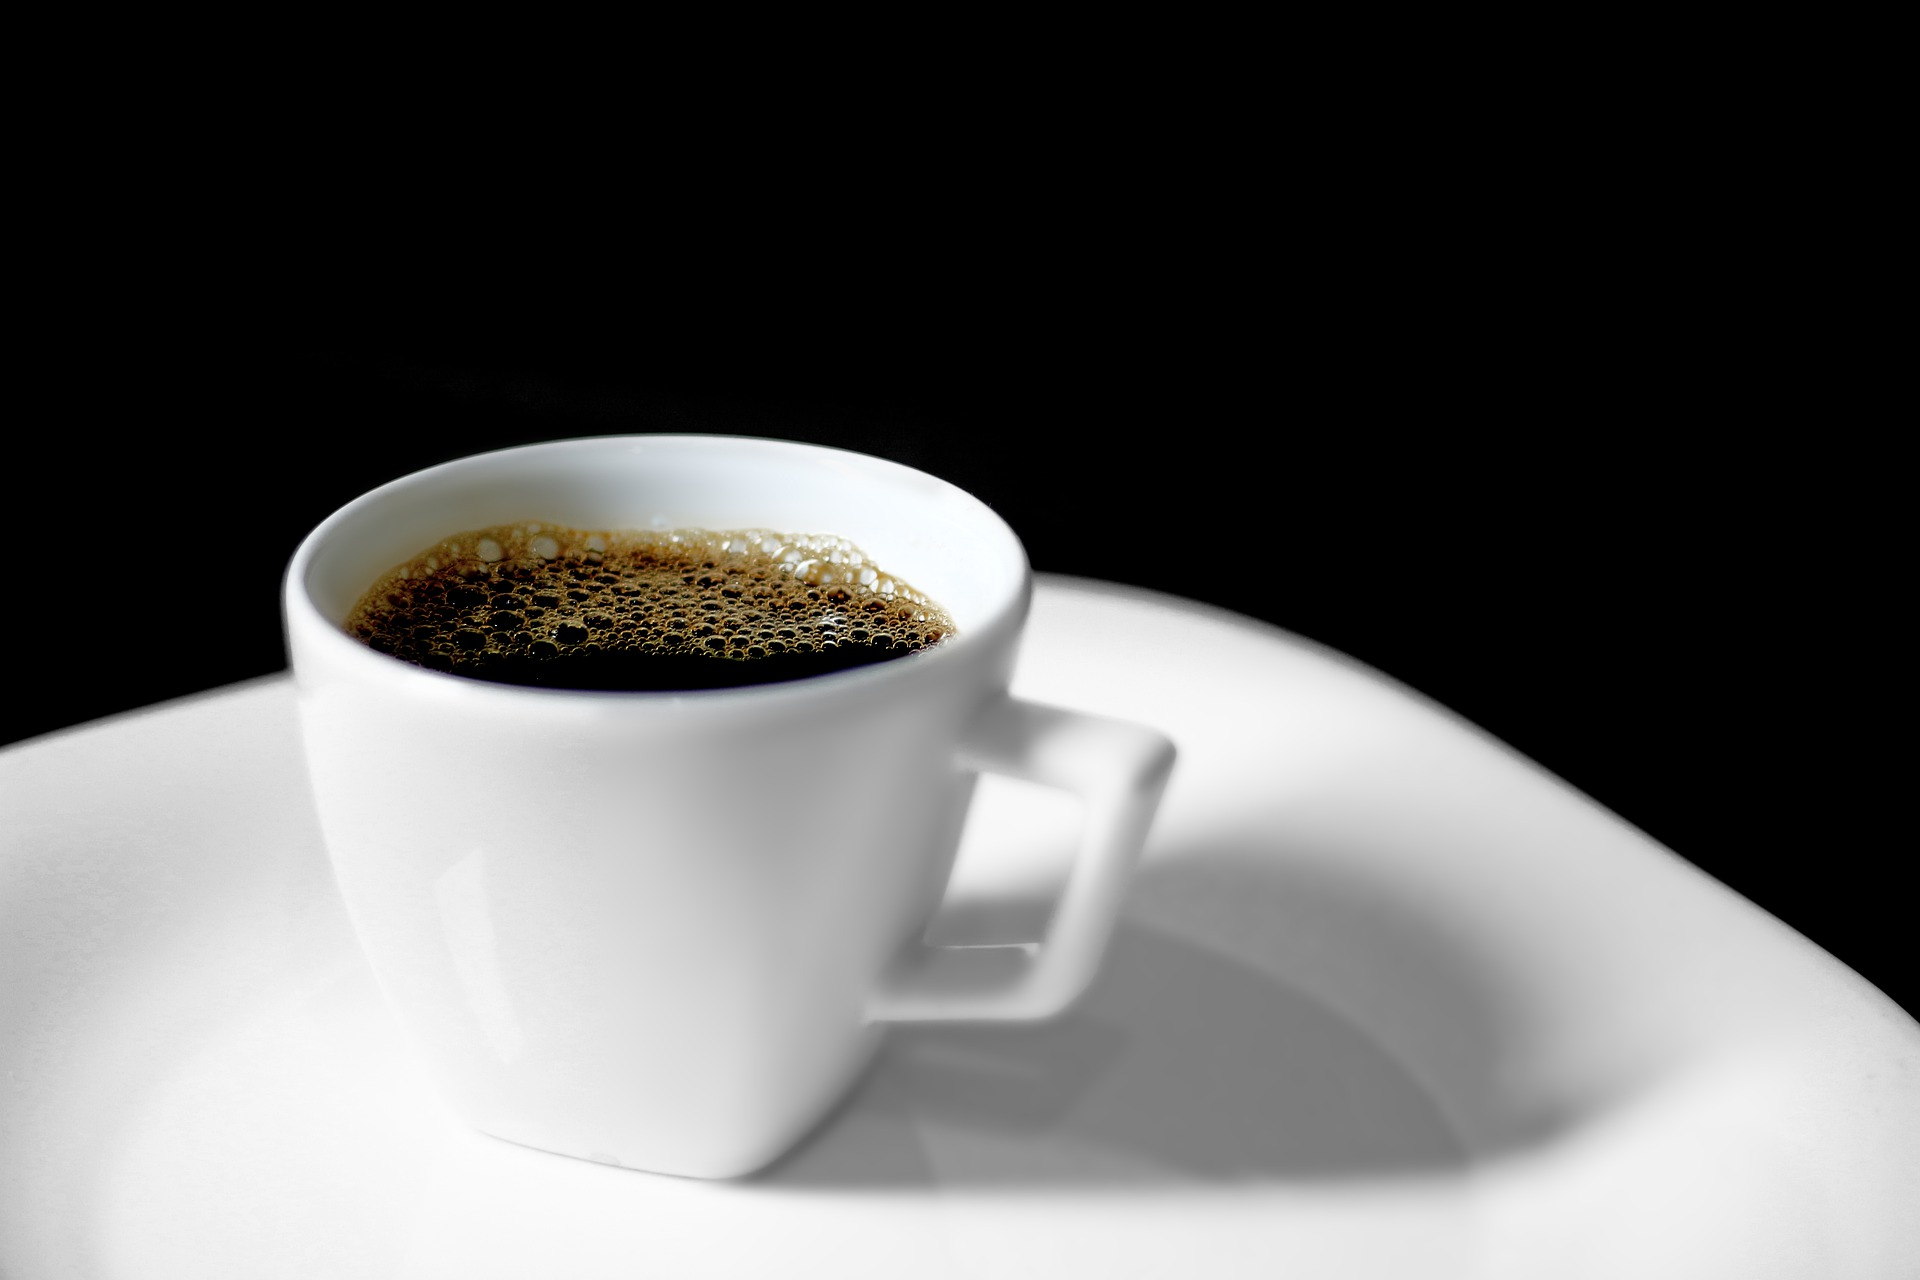
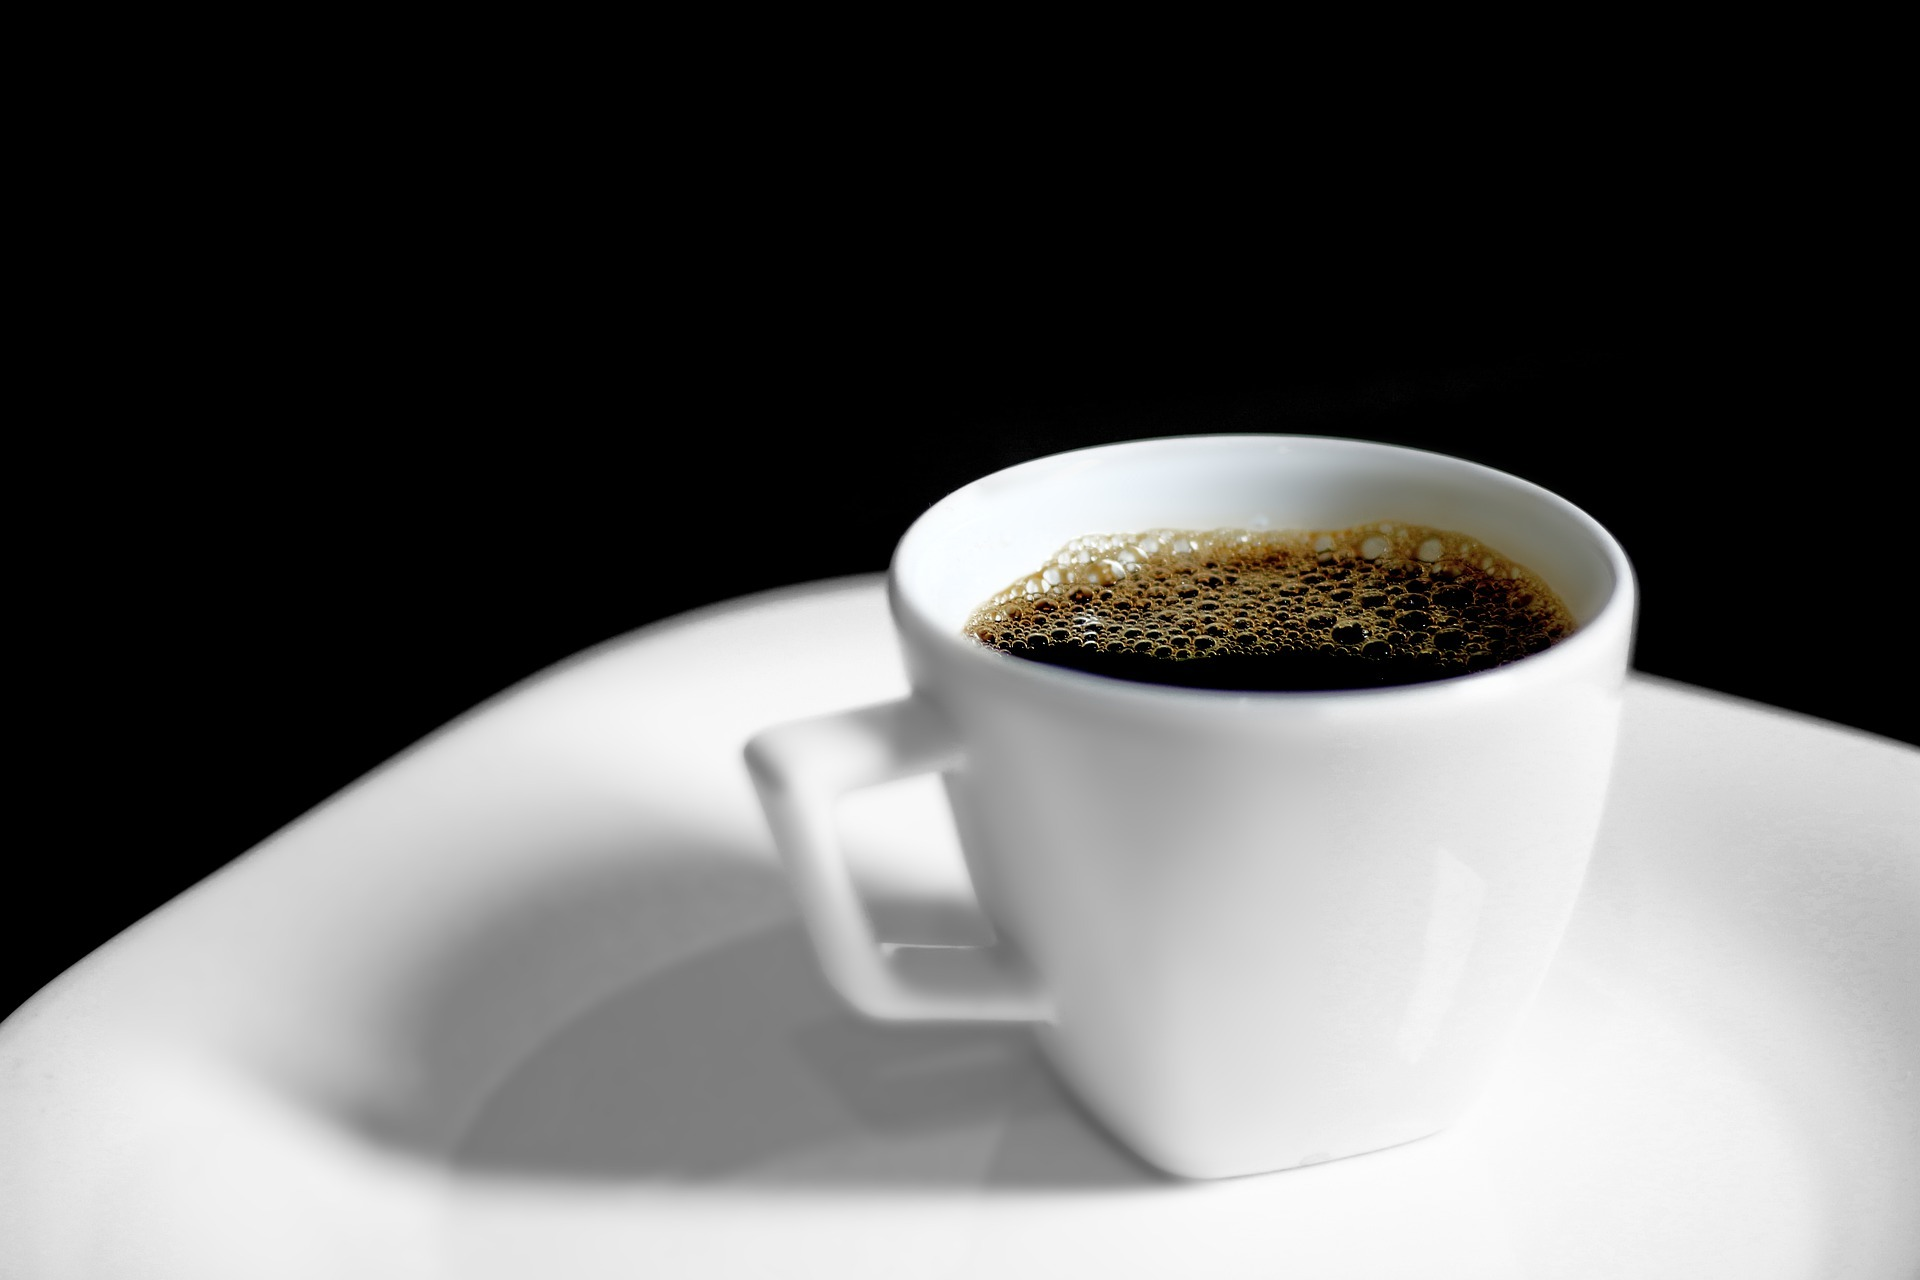
Added home section with styling

diff --git a/index.html b/index.html
@@ -15,15 +15,86 @@
       href="https://cdn.jsdelivr.net/npm/bootstrap@5.1.3/dist/css/bootstrap.min.css"
       rel="stylesheet"
     />
-    <!-- fontawesome CDN -->
-    <link
-      rel="stylesheet"
-      href="https://cdn.jsdelivr.net/npm/@fortawesome/fontawesome-free@5.15.4/css/fontawesome.min.css"
-    />
+    <!-- fontawesome -->
+    <script
+      src="https://kit.fontawesome.com/32ec14537e.js"
+      crossorigin="anonymous"
+    ></script>
     <!-- custom css -->
-    <link rel="stylesheet" href="styles/style.css" />
+    <link rel="stylesheet" href="./styles/styles.css" />
+    <!-- scripts -->
+    <script src="./js/app.js" defer></script>
   </head>
   <body>
-    body
+    <header>
+      <nav class="navbar navbar-expand-lg navigation-wrap">
+        <div class="container">
+          <a class="navbar-brand" href="#"
+            ><i class="fas fa-mug-hot"></i>Coffee lovers</a
+          >
+          <button
+            class="navbar-toggler"
+            type="button"
+            data-bs-toggle="collapse"
+            data-bs-target="#navbarText"
+            aria-controls="navbarText"
+            aria-expanded="false"
+            aria-label="Toggle navigation"
+          >
+            <i class="fas fa-stream navbar-toggler-icon"></i>
+          </button>
+          <div class="collapse navbar-collapse" id="navbarText">
+            <ul class="navbar-nav ms-auto mb-2 mb-lg-0">
+              <li class="nav-item">
+                <a class="nav-link active" href="#">Home</a>
+              </li>
+              <li class="nav-item">
+                <a class="nav-link" href="#">About</a>
+              </li>
+              <li class="nav-item">
+                <a class="nav-link" href="#">Explore Coffee</a>
+              </li>
+              <li class="nav-item">
+                <a class="nav-link" href="#">Reviews</a>
+              </li>
+              <li class="nav-item">
+                <a class="nav-link" href="#">FAQ</a>
+              </li>
+            </ul>
+          </div>
+        </div>
+      </nav>
+    </header>
+
+    <section id="home">
+      <div class="container-fluid px-0 top-banner">
+        <div class="container">
+          <div class="row">
+            <div class="col-lg-5 col-md-6">
+              <h1>
+                What better way to start the day than with a cup of coffee?
+              </h1>
+              <p>
+                Everything we do is rooted in that basic concept. It’s what
+                drives us. It’s what moves us, motivates us and keeps us excited
+                about every decision we make about our products, our services
+                and all that we do in the community. We are coffee passionate.
+              </p>
+              <div class="mt-4">
+                <button class="main-btn">
+                  Order now <i class="fas fa-shopping-basket ps-3"></i>
+                </button>
+                <button class="white-btn ms-lg-4 mt-lg-0 mt-4">
+                  Order now <i class="fas fa-angle-right ps-3"></i>
+                </button>
+              </div>
+            </div>
+          </div>
+        </div>
+      </div>
+    </section>
+
+    <script src="https://cdn.jsdelivr.net/npm/@popperjs/core@2.9.2/dist/umd/popper.min.js"></script>
+    <script src="https://cdn.jsdelivr.net/npm/bootstrap@5.0.1/dist/js/bootstrap.min.js"></script>
   </body>
 </html>

diff --git a/styles/styles.css b/styles/styles.css
@@ -1,0 +1,144 @@
+@import url("https://fonts.googleapis.com/css2?family=Quicksand:wght@300;400;500;600;700&family=Roboto:wght@100;300;400;500;700&display=swap");
+@import "globals.css";
+@import "header.css";
+@import "home.css";
+
+* {
+  box-sizing: border-box;
+  margin: 0;
+  padding: 0;
+}
+
+html {
+  scroll-behavior: smooth;
+}
+
+body {
+  font-family: var(--primary-font);
+  font-size: 100%;
+  font-weight: 400;
+}
+
+:active,
+:hover,
+:focus {
+  outline: 0 !important;
+  outline-offset: 0;
+}
+
+a,
+a:hover {
+  text-decoration: none;
+}
+
+a:hover {
+  color: var(--primary-color) !important;
+}
+
+ul,
+ol {
+  margin: 0;
+  padding: 0;
+}
+
+h1 {
+  font-size: 3rem;
+  font-weight: 900;
+  margin-bottom: 3rem;
+  color: var(--text-orange);
+}
+
+h2 {
+  font-weight: 700;
+  font-size: 2.25rem;
+  text-transform: capitalize;
+  font-family: var(--secondary-font);
+  color: var(--secondary-color);
+  line-height: 3rem;
+}
+
+h4 {
+  color: var(--secondary-color);
+  font-family: var(--secondary-font);
+  text-transform: capitalize;
+  font-size: 18px;
+  font-weight: 800;
+  margin-bottom: 0.5rem;
+}
+
+h5 {
+  color: var(--primary-color);
+  text-transform: capitalize;
+  font-family: var(--secondary-font);
+  font-size: 1rem;
+  font-weight: 700;
+  margin-bottom: 0.5rem;
+}
+
+p {
+  font-size: 1rem;
+  color: var(--text-color);
+  font-weight: 400;
+  line-height: 1.75rem;
+  letter-spacing: 1px;
+}
+
+.main-btn {
+  display: inline-block;
+  padding: 0.625rem 1.875rem;
+  line-height: 1.5625rem;
+  background-color: var(--primary-color);
+  border: 0.1875rem solid var(--primary-color);
+  color: var(--white-color);
+  font-size: 0.9375rem;
+  font-weight: 600;
+  text-transform: capitalize;
+  box-shadow: 0px 2px 10px -1px rgb(0 0 0 / 19%);
+  -webkit-transition: all 0.4s ease-out 0s;
+  -o-transition: all 0.4s ease-out 0s;
+  -moz-transition: all 0.4s ease-out 0s;
+  transition: all 0.4s ease-out 0s;
+}
+
+.white-btn {
+  padding: 0.625rem 1.875rem;
+  line-height: 25px;
+  background-color: var(--white-color);
+  border: 0.1875rem solid var(--white-color);
+  color: var(--text-color);
+  font-size: 0.9375rem;
+  font-weight: 600;
+  text-transform: capitalize;
+  box-shadow: 0px 2px 10px -1px rgb(0 0 0 / 19%);
+  -webkit-transition: all 0.4s ease-out 0s;
+  -o-transition: all 0.4s ease-out 0s;
+  -moz-transition: all 0.4s ease-out 0s;
+  transition: all 0.4s ease-out 0s;
+}
+
+.main-btn:hover {
+  background-color: transparent;
+  color: var(--primary-color);
+}
+
+.white-btn:hover {
+  background-color: transparent;
+  color: var(--primary-color);
+  border-color: var(--primary-color);
+}
+
+.wrapper {
+  padding-top: 8.25rem;
+  padding-bottom: 8.25rem;
+}
+
+.text-content {
+  width: 70%;
+  margin: auto;
+}
+
+.counter-section h2,
+.testimonial-section h2,
+.book-food-text h2 {
+  color: var(--white-color);
+}

diff --git a/styles/globals.css b/styles/globals.css
@@ -1,10 +1,11 @@
 :root {
-  --primary-color: #a82c48;
+  --primary-color: #ff3126;
   --secondary-color: #43121d;
   --third-color: #f98169;
   --white-color: #fff;
-  --text-color: #555;
+  --text-color: #ff3126;
   --text-gray: #999;
+  --text-orange: #ffb347;
   --black-color: #000;
   --primary-font: "Roboto", sans-serif;
   --secondary-font: "Quicksand", sans-serif;

diff --git a/styles/home.css b/styles/home.css
@@ -1,0 +1,10 @@
+.top-banner {
+  width: 100%;
+  background: url("../images/cup-of-coffee-bg.jpg") no-repeat center;
+  background-size: cover;
+  padding: 16.875rem 0 9.375rem;
+}
+
+.top-banner p {
+  font-weight: 700;
+}
